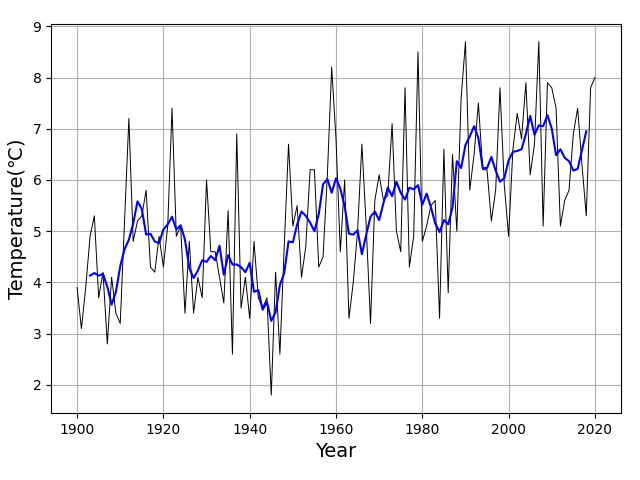
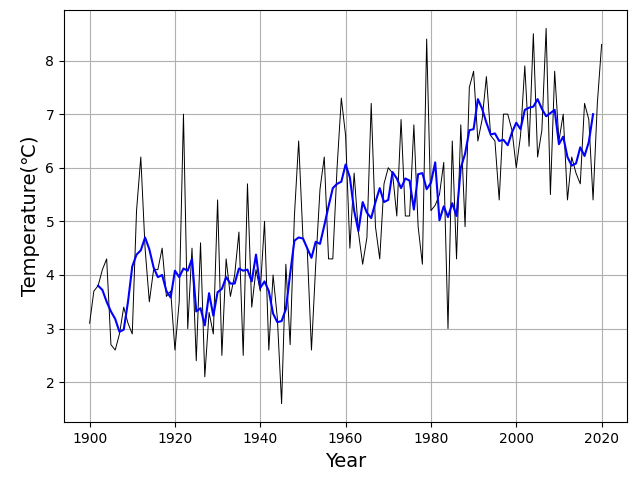
make scraping file

diff --git a/data/htdocs/weather_app/webroot/css/style.css b/data/htdocs/weather_app/webroot/css/style.css
@@ -7,10 +7,6 @@ body {
   background-color: #fff;
 }
 
-.main .page-header {
-  margin-top: 0;
-}
-
 table.table {
   margin-bottom: .5rem;
   border-color: #fff;
@@ -35,6 +31,7 @@ h2 {
 
 .btn-submit {
   padding: 8px 50px;
+  margin: .5rem;
   border: 1px solid #ccc;
   background-image: -webkit-gradient(linear, left top, left bottom, color-stop(0, #fafafa), to(#ededed));
   background-image: linear-gradient(to bottom, #fafafa 0, #ededed 100%);

diff --git a/data/htdocs/weather_app/webroot/sass/style.scss b/data/htdocs/weather_app/webroot/sass/style.scss
@@ -6,9 +6,6 @@ body {
 .main {
   padding: 1rem 0;
   background-color: #fff;
-  .page-header {
-    margin-top: 0;
-  }
 }
 
 table.table {
@@ -33,6 +30,7 @@ h2 {
 
 .btn-submit {
   padding: 8px 50px;
+  margin: .5rem;
   border: 1px solid #ccc;
   background-image: linear-gradient(to bottom,#fafafa 0,#ededed 100%);
   border-radius: 5px;

diff --git a/data/htdocs/weather_app/src/Python/script/scrapingWeatherData.py b/data/htdocs/weather_app/src/Python/script/scrapingWeatherData.py
@@ -1,0 +1,64 @@
+place_codeA = [14, 21, 23, 31, 32, 33, 35, 34, 36, 54, 56, 55, 48, 41, 57, 42, 43, 40, 52, 51, 49, 45, 53, 50, 46, 68, 69, 61, 60, 67, 66, 63, 65, 64, 73, 72, 74, 71, 81, 82, 85, 83, 84, 86, 88, 87]
+place_codeB = [47412, 47423, 47430, 47575, 47582, 47584, 47588, 47590, 47595, 47604, 47605, 47607, 47610, 47615, 47616, 47624, 47626, 47629, 47632, 47636, 47638, 47648, 47651, 47656, 47670, 47741, 47746, 47759, 47761, 47765, 47768, 47770, 47777, 47780, 47887, 47891, 47893, 47895, 47762, 47807, 47813, 47815, 47817, 47819, 47827, 47830]
+place_name = ["札幌", "室蘭", "函館", "青森", "秋田", "盛岡", "山形", "仙台", "福島", "新潟", "金沢", "富山", "長野", "宇都宮", "福井", "前橋", "熊谷", "水戸", "岐阜", "名古屋", "甲府", "銚子", "津", "静岡", "横浜", "松江", "鳥取", "京都", "彦根", "広島", "岡山", "神戸", "和歌山", "奈良", "松山", "高松", "高知", "徳島", "下関", "福岡", "佐賀", "大分", "長崎", "熊本", "鹿児島", "宮崎"]   
+
+import requests
+from bs4 import BeautifulSoup
+import csv, const
+
+base_url = "http://www.data.jma.go.jp/obd/stats/etrn/view/monthly_s1.php?prec_no=%s&block_no=%s&year=%s&month=&day=1&view=p1"
+output_path = const.DATA_PATH_TEMP
+
+#取ったデータをfloat型に変えるやつ。(データが取れなかったとき気象庁は"/"を埋め込んでいるから0に変える)
+def str2float(str):
+  try:
+    return float(str)
+  except:
+    return 0.0
+
+
+if __name__ == "__main__":
+  for place in place_name:
+    print(place)
+    #最終的にデータを集めるリスト
+    All_list = [['年月日', '陸の平均気圧(hPa)', '海の平均気圧(hPa)', '降水量(mm)', '平均気温(℃)', '最高気温(℃)', '最低気温(℃)', '平均湿度(%)', '平均風速(m/s)', '日照時間(h)', '降雪(cm)']]
+    index = place_name.index(place)
+
+    for year in range(2007,2008):
+      print(year)
+      #2つの都市コードと年を当てはめる。
+      r = requests.get(base_url%(place_codeA[index], place_codeB[index], year))
+      r.encoding = r.apparent_encoding
+
+      # 対象である表をスクレイピング。
+      soup = BeautifulSoup(r.text)
+      rows = soup.findAll('tr',class_='mtx')
+
+      # 表の最初の1~3行目はカラム情報なのでスライスする
+      rows = rows[3:]
+
+      # 1日〜最終日までの１行を網羅し取得
+      for row in rows:
+        data = row.findAll('td')
+
+        #１行の中には様々なデータがあるので全部取り出す
+        rowData = [] #初期化
+        rowData.append(str(year) + "/" + str(data[0].string))
+        rowData.append(str2float(data[1].string))
+        rowData.append(str2float(data[2].string))
+        rowData.append(str2float(data[3].string))
+        rowData.append(str2float(data[7].string))
+        rowData.append(str2float(data[8].string))
+        rowData.append(str2float(data[9].string))
+        rowData.append(str2float(data[12].string))
+        rowData.append(str2float(data[14].string))
+        rowData.append(str2float(data[19].string))
+        rowData.append(str2float(data[21].string))
+
+        #次の行にデータを追加
+        All_list.append(rowData)
+
+    #都市ごとにデータをファイルを新しく生成して書き出す
+    with open(const.DATA_PATH_WEATHER + place + '.csv', 'w') as file:
+      writer = csv.writer(file, lineterminator='\n')
+      writer.writerows(All_list)

diff --git a/data/htdocs/weather_app/src/Python/script/displayMonthTemp.py b/data/htdocs/weather_app/src/Python/script/displayMonthTemp.py
@@ -24,12 +24,12 @@ if(runningMeanPeriod != 0):
 fig = plt.figure()
 plt.plot(values['year'], values['value'], color="black", linewidth=0.7, linestyle="-", label="")
 if(runningMeanPeriod != 0):
-    plt.plot(values['year'], runningMeanValue, color="blue", linewidth=1.5, linestyle="-")
+    plt.plot(values['year'], runningMeanValue, color="blue", linewidth=1.5, linestyle="-", label="移動平均")
 
 plt.xlabel("Year", fontsize=14, fontname='Times New Roman') # x軸のタイトル
 plt.ylabel("Temperature(℃)", fontsize=14, fontname='Times New Roman') # y軸のタイトル
 plt.grid()
-plt.subplots_adjust(left=0.08, right=0.97, bottom=0.14, top=0.95)
+plt.subplots_adjust(left=0.1, right=0.98, bottom=0.12, top=0.98)
 imagePath = const.IMG_PATH + const.TMP_IMG
 fig.savefig(imagePath)
 

diff --git a/data/htdocs/weather_app/src/Python/script/const.py b/data/htdocs/weather_app/src/Python/script/const.py
@@ -1,5 +1,6 @@
 DATA_PATH = "/root/weather_app/src/Python/data/"
 DATA_PATH_TEMP = DATA_PATH + "temp/"
 DATA_PATH_INDEX = DATA_PATH + "index/"
+DATA_PATH_WEATHER = DATA_PATH + "weather/"
 IMG_PATH = "/root/weather_app/webroot/img/"
 TMP_IMG = 'tmp/tmp.png'
